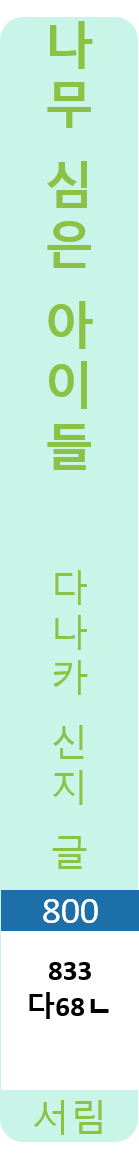
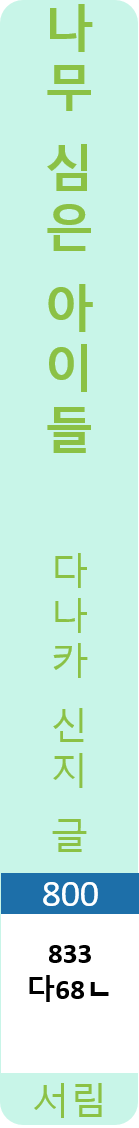
배경 적용및 사이즈 조정

diff --git a/step3.html b/step3.html
@@ -12,23 +12,55 @@
  
     .library {
         border: solid #e3e3e3 1px;
-        height: 400px;
-        background-image: url( "img/lib_1.jpg" );
-        padding: 25px 30px 0px 30px;
+        height: 800px;
+        padding: 30px 30px 0px 30px;
         overflow-y: atuo;
+        position: relative;
+        border: solid 2px #a3a3a3;
+    }
+
+    
+    .library_back {
+        background-image: url( "img/lib_1.jpg" );
+        position:absolute;
+        background-size:100%;
+        opacity:0.3!important;
+        filter:alpha(opacity=30);
+        z-index:-1;
+        content:"";
+        left:0px;
+        top : 0px;
+        width:100%;
+        height:100%;
+        
     }
 
     .bookTable {
         padding: 25px 30px 0px 30px;
-        margin-top : 30px;
         border: solid #f3f3f3 1px;
-        height: 400px;
-        background-image: url( "img/desk.jpg" );
+        height: 800px;
+        
+        position: relative;
+        border: solid 2px #a3a3a3;
+    }
+
+    .bookTable_back {
+        background-image: url( "img/shelf_scat.jpg" );
+        position:absolute;
+        background-size:100%;
+        opacity:0.3!important;
+        filter:alpha(opacity=30);
+        z-index:-1;
+        content:"";
+        left:0px;
+        top : 0px;
+        width:100%;
+        height:100%;
     }
 
     .scatter {
         width: 40px;
-        height: 320px;
+        height: 312px;
         background: #fff ;
         float: left;
         border: #4d5355 solid 1px;
@@ -42,21 +74,22 @@
 
     .slot {
         width: 44px;
-        height: 324px;
+        height: 356px;
         border: solid 1px #434343;
         float : left;
-        margin : 10px 5px 45px 5px;
+        margin : 0px 5px 30px 5px;
         background-color: #fff ;
         opacity: 0.8;
         font-size: 8px;
-        overflow :auto;
+        overflow :hidden;
         border-radius: 4px;   
+        position: relative;
     }
 
     .slot-title {
         position: absolute;
         width : 44px;
-        height : 324px;
+        height : 356px;
         font-size: 14px;
         font-weight: 500;
         text-align: center;
@@ -72,19 +105,25 @@
 <body>
     <div class="container-fluid">
         <div class="row">
-            <div class="col-md-12">
+            <div class="col-md-12" style="margin-bottom: 10px;margin-top: 10px;">
+                <a class="btn btn-success btn-sm" href="./index.html">이전 단계로</a>
+            </div>
+            <div class="col-md-12" style="margin-bottom: 10px;">
                 <h1>
                     3단계 청구기호 순으로 책꽂이에 꽂기
                 </h1>
             </div>
         </div>
         <div class="row ">
-            <div class="col-md-12">
+            <div class="col-md-6">
                 <div class="library">
+                        <div class="library_back"></div>
                     
                 </div>
-            
+            </div>
+            <div class="col-md-6">
                 <div class="bookTable">
+                        <div class="bookTable_back"></div>
                 </div>
             </div>
         </div>

diff --git a/step2.html b/step2.html
@@ -11,11 +11,29 @@
 <style>
  
     .library {
+        position: relative;
         border: solid #e3e3e3 1px;
         height: 620px;
-        background-image: url( "img/lib_1.jpg" );
+        
         padding: 75px 50px 0px 50px;
+        overflow: hidden;
     }
+
+    .library_back {
+        background-image: url( "img/shelf_single.jpg" );
+        position:absolute;
+        background-size:100%;
+        opacity:0.3!important;
+        filter:alpha(opacity=30);
+        z-index:-1;
+        content:"";
+        left:0px;
+        top : 0px;
+        width:100%;
+        height:100%;
+    }
+
+
 
     .bookTable {
         margin-top : 30px;
@@ -41,15 +59,16 @@
 
     .slot {
         width: 64px;
-        height: 510px;
+        height: 505px;
         border: solid 1px #434343;
         float : left;
         margin : 10px 5px 45px 5px;
         background-color: #fff ;
         opacity: 0.8;
         font-size: 8px;
-        overflow :auto;
-        border-radius: 5px;
+        overflow :hidden;
+        border-radius: 9px;
+        box-shadow: #4d5355 2px 2px 2px;
     }
 
     .slot-title {
@@ -70,7 +89,10 @@
 <body>
     <div class="container-fluid">
         <div class="row">
-            <div class="col-md-12">
+            <div class="col-md-12" style="margin-bottom: 10px;margin-top: 10px;">
+                <a class="btn btn-success btn-sm" href="./index.html">이전 단계로</a>
+            </div>
+            <div class="col-md-12" style="margin-bottom: 10px;">
                 <h1>
                     2단계 책등 제목을 보고 청구기호 붙이기
                 </h1>
@@ -79,6 +101,7 @@
         <div class="row ">
             <div class="col-md-12">
                 <div class="library">
+                    <div class="library_back"></div>
                     
                 </div>
             
@@ -119,6 +142,12 @@
                 imageA : "./img/back/200-a.png",
                 desc : "200"
             },{
+                name: "201",
+                color: "#" + getRandomColor(),
+                image : "./img/back/201-q.png",
+                imageA : "./img/back/201-a.png",
+                desc : "201"
+            },{
                 name: "300",
                 color: "#" + getRandomColor(),
                 image : "./img/back/300-q.png",
@@ -136,6 +165,12 @@
                 image : "./img/back/500-q.png",
                 imageA : "./img/back/500-a.png",
                 desc : "500"
+            },{
+                name: "501",
+                color: "#" + getRandomColor(),
+                image : "./img/back/501-q.png",
+                imageA : "./img/back/501-a.png",
+                desc : "501"
             },{
                 name: "600",
                 color: "#" + getRandomColor(),

diff --git a/index.html b/index.html
@@ -24,17 +24,17 @@
 <div class="container ">
     <div class="row">
         <div class="col-md-12 text-center">
-            <div class=" back_img"  style="border:solid 2px #a3a3a3; padding: 10px 10px;margin-left:10%; width:864px;height:1050px;">
+            <div class=" back_img"  style="border:solid 2px #a3a3a3; padding: 10px 10px;margin-left:10%; width:864px;height:1050px;padding-top:200px;">
                 <div class="col-md-12 text-center mb-2">
                     <h3 style="margin-top:40px;">신나는 도서관 활동</h3>
                     <h1>게임 속 펀(fun)펀(fun)한 십진분류(KDC)</h1>
                 </div>
 
-                <div class="col-md-8 offset-md-2 text-center" style="margin-top:30px;">
+                <div class="col-md-8 offset-md-2 text-center" style="margin-top:60px;">
                     
-                    <div style="margin-bottom: 15px"><a href="./step1.html" style="width:400px;" class="btn btn-lg btn-outline-dark text-left" type="button">1단계 도서 제목으로 십진분류 하기</a></div>
-                    <div style="margin-bottom: 15px"><a href="./step2.html" style="width:400px;" class="btn btn-lg btn-outline-dark text-left" type="button">2단계 책등 제목을 보고 청구기호 붙이기</a></div>
-                    <div style="margin-bottom: 15px"><a href="./step3.html" style="width:400px;" class="btn btn-lg btn-outline-dark text-left" type="button">3단계 청구기호 순으로 책꽂이에 꽂기</a></div>
+                    <div style="margin-bottom: 20px"><a href="./step1.html" style="width:400px;" class="btn btn-lg btn-outline-dark text-left" type="button">1단계 도서 제목으로 십진분류 하기</a></div>
+                    <div style="margin-bottom: 20px"><a href="./step2.html" style="width:400px;" class="btn btn-lg btn-outline-dark text-left" type="button">2단계 책등 제목을 보고 청구기호 붙이기</a></div>
+                    <div style="margin-bottom: 20px"><a href="./step3.html" style="width:400px;" class="btn btn-lg btn-outline-dark text-left" type="button">3단계 청구기호 순으로 책꽂이에 꽂기</a></div>
                 </div>
 
             </div>

diff --git a/step1.html b/step1.html
@@ -73,7 +73,10 @@
 <body>
     <div class="container-fluid">
         <div class="row">
-            <div class="col-md-12">
+            <div class="col-md-12" style="margin-bottom: 10px;margin-top: 10px;">
+                <a class="btn btn-success btn-sm" href="./index.html">이전 단계로</a>
+            </div>
+            <div class="col-md-12" style="margin-bottom: 10px;">
                 <h1>
                     1단계 도서 제목으로 십진분류 하기
                 </h1>
